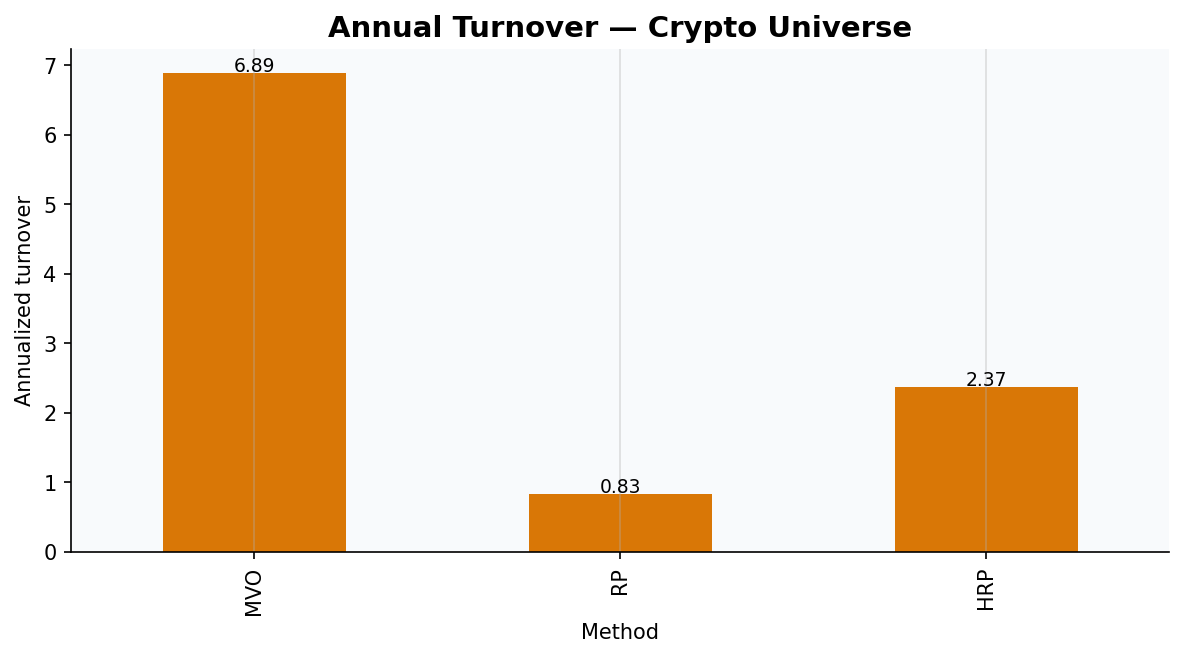
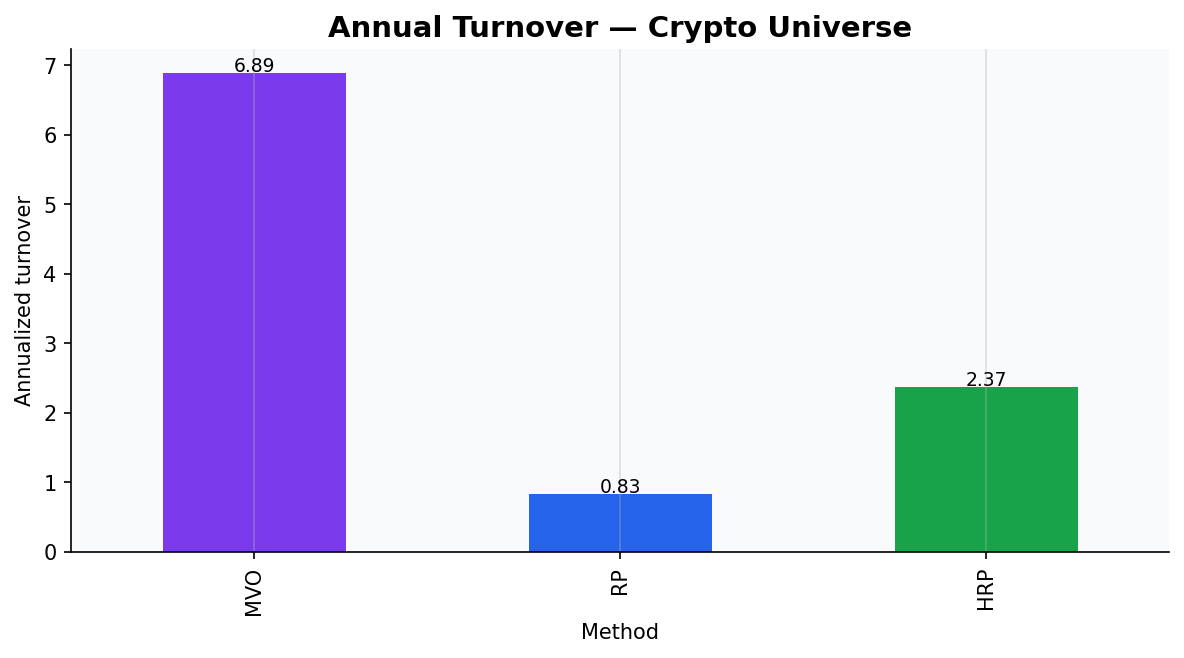
aligning colors plots

Changed region(s): [[0.125, 0.0912, 0.3125, 0.8511], [0.75, 0.5775, 0.9375, 0.8511], [0.4375, 0.7295, 0.625, 0.8511]]

diff --git a/empirical_analysis.py b/empirical_analysis.py
@@ -47,6 +47,7 @@ STYLE = {
 }
 plt.rcParams.update(STYLE)
 
+colors = ["#7C3AED", "#2563EB", "#16A34A"]
 
 # -----------------------------
 # 2. HELPERS
@@ -58,7 +59,8 @@ def ensure_plots_dir():
 def save_plot(filename):
     plt.tight_layout()
     plt.savefig(os.path.join("plots", filename), dpi=150, bbox_inches="tight")
-    plt.show()
+    # plt.show()
+    plt.close()
     print(f"  ✓ Saved: plots/{filename}")
 
 
@@ -281,8 +283,6 @@ def plot_weights_over_time(weights_dict, asset_labels, universe_name, filename):
 def plot_quantitative_stability(results, universe_name, filename):
     fig, ax = plt.subplots(figsize=(8, 4.5))
 
-    colors = ["#7C3AED", "#2563EB", "#16A34A"]
-
     results["Weight Stability"].plot(
         kind="bar",
         ax=ax,
@@ -311,14 +311,14 @@ def plot_drawdown_with_recovery(returns_df, universe_name, filename):
 
     recovery_stats = {}
 
-    for col in returns_df.columns:
+    for col, color in zip(returns_df.columns, colors):
         returns = returns_df[col]
 
         wealth = (1 + returns).cumprod()
         peak = wealth.cummax()
         drawdown = wealth / peak - 1
 
-        ax.plot(drawdown.index, drawdown, label=col)
+        ax.plot(drawdown.index, drawdown, label=col, color=color)
 
         # --- Compute recovery time ---
         trough = drawdown.idxmin()
@@ -335,9 +335,6 @@ def plot_drawdown_with_recovery(returns_df, universe_name, filename):
 
         recovery_stats[col] = time_under_water
 
-        # Mark trough
-        ax.scatter(trough, drawdown.loc[trough], color="red", s=40)
-
     ax.set_title(f"Drawdowns with Recovery — {universe_name}", fontsize=14, fontweight="bold")
     ax.set_ylabel("Drawdown")
     ax.set_xlabel("Date")
@@ -347,7 +344,8 @@ def plot_drawdown_with_recovery(returns_df, universe_name, filename):
     fig.tight_layout()
     fig.savefig(f"plots/{filename}", dpi=150, bbox_inches="tight")
 
-    plt.show()   
+    # plt.show()
+    plt.close()   
     plt.close(fig)
 
     print(f"  ✓ Saved: plots/{filename}")
@@ -388,7 +386,7 @@ def print_drawdown_table(recovery_stats, avg_drawdown_stats, universe_name):
 def plot_sharpe_comparison(results, universe_name, filename):
     fig, ax = plt.subplots(figsize=(8, 4.5))
 
-    results["Sharpe Ratio"].plot(kind="bar", ax=ax, color="#2563EB")
+    results["Sharpe Ratio"].plot(kind="bar", ax=ax, color=colors)
 
     ax.set_title(f"Sharpe Ratio Comparison — {universe_name}", fontsize=14, fontweight="bold")
     ax.set_ylabel("Sharpe Ratio", fontsize=10)
@@ -418,7 +416,7 @@ def plot_rolling_sharpe(returns_df, universe_name, filename, window=12):
         rolling_data[col] = compute_rolling_sharpe(returns_df[col], window=window)
 
     rolling_df = pd.DataFrame(rolling_data, index=returns_df.index)
-    rolling_df.plot(ax=ax, linewidth=1.8)
+    rolling_df.plot(ax=ax, linewidth=1.8, color=colors)
 
     ax.axhline(0, color="#94A3B8", linestyle="--", linewidth=1)
     ax.set_title(f"Rolling {window}-Month Sharpe Ratio — {universe_name}", fontsize=14, fontweight="bold")
@@ -466,7 +464,7 @@ def plot_annual_turnover(results, weights_dict, universe_name, filename):
     annual_turnover = pd.Series(annual_turnover)
 
     fig, ax = plt.subplots(figsize=(8, 4.5))
-    annual_turnover.plot(kind="bar", ax=ax, color="#D97706")
+    annual_turnover.plot(kind="bar", ax=ax, color=colors)
 
     ax.set_title(f"Annual Turnover — {universe_name}", fontsize=14, fontweight="bold")
     ax.set_ylabel("Annualized turnover", fontsize=10)
@@ -516,9 +514,21 @@ def plot_turnover_by_regime(weights_dict, monthly_returns, universe_name, filena
 
     df = pd.DataFrame(rows)
     pivot = df.pivot(index="Method", columns="Regime", values="Annualized Turnover")
+    pivot = pivot.reindex(["MVO", "RP", "HRP"])
 
     fig, ax = plt.subplots(figsize=(10, 4.8))
-    pivot.plot(kind="bar", ax=ax)
+
+    color_map = {"MVO": "#7C3AED", "RP": "#2563EB", "HRP": "#16A34A",    }
+
+    methods = pivot.index.tolist()
+    x = np.arange(len(methods))
+    width = 0.35
+
+    ax.bar(x - width/2, pivot["High-vol regime"], width, label="High-vol regime", color=[color_map[m] for m in methods], alpha=1.0 )
+    ax.bar(x + width/2, pivot["Low-vol regime"], width, label="Low-vol regime", color=[color_map[m] for m in methods], alpha=0.5 )
+
+    ax.set_xticks(x)
+    ax.set_xticklabels(methods)
 
     ax.set_title(f"Turnover Across Regimes — {universe_name}", fontsize=14, fontweight="bold")
     ax.set_ylabel("Annualized turnover", fontsize=10)
